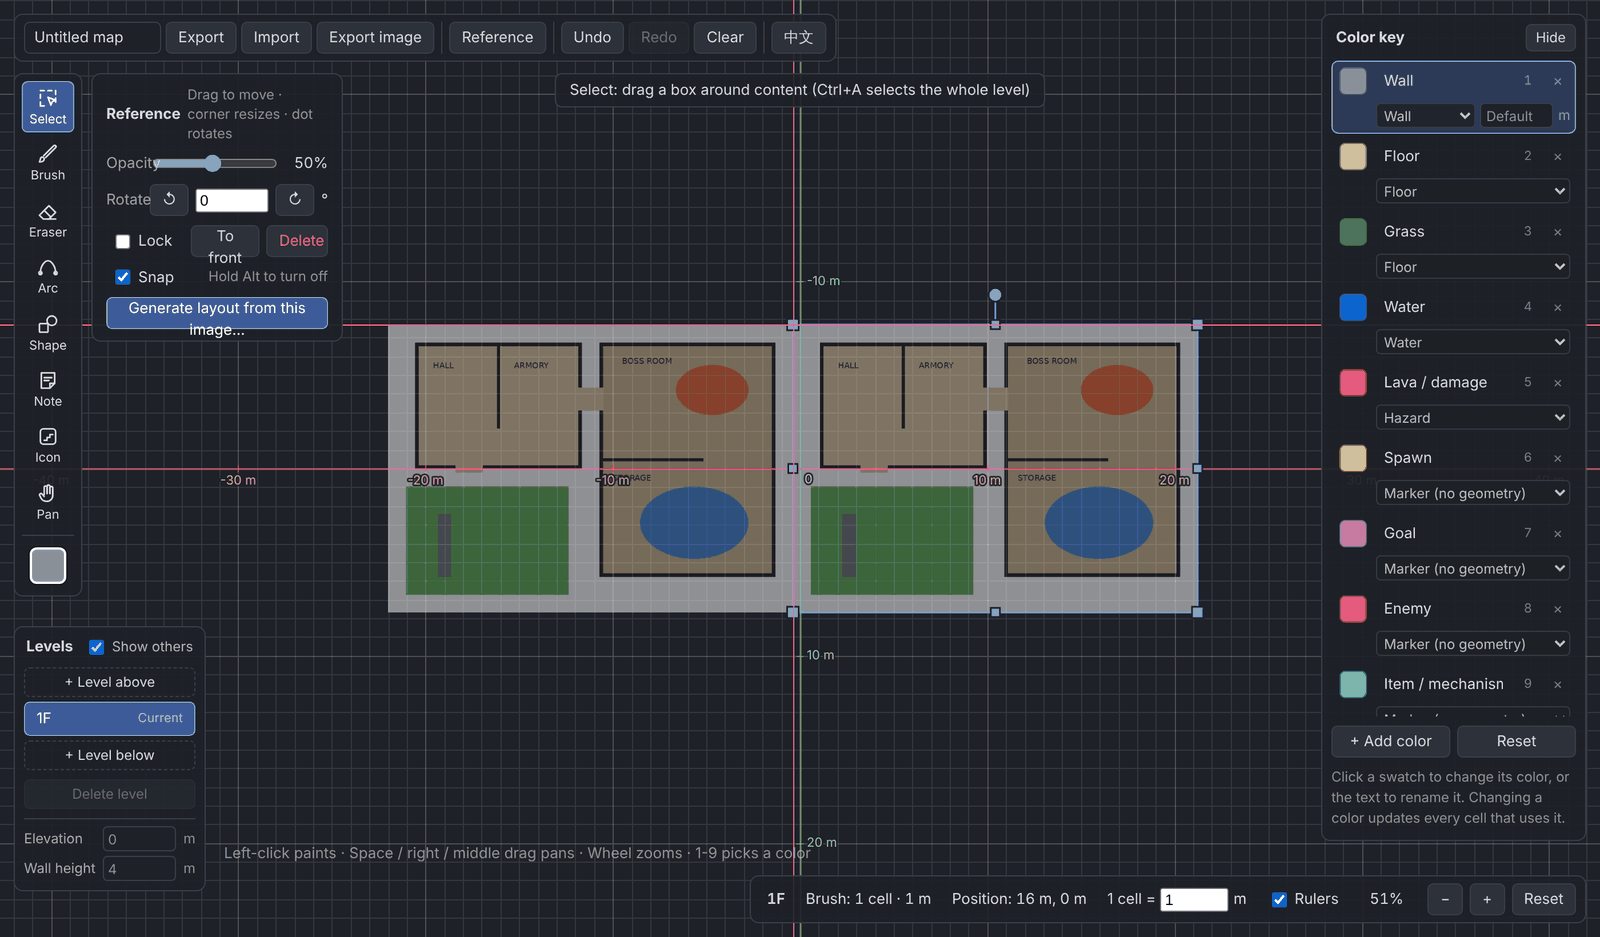
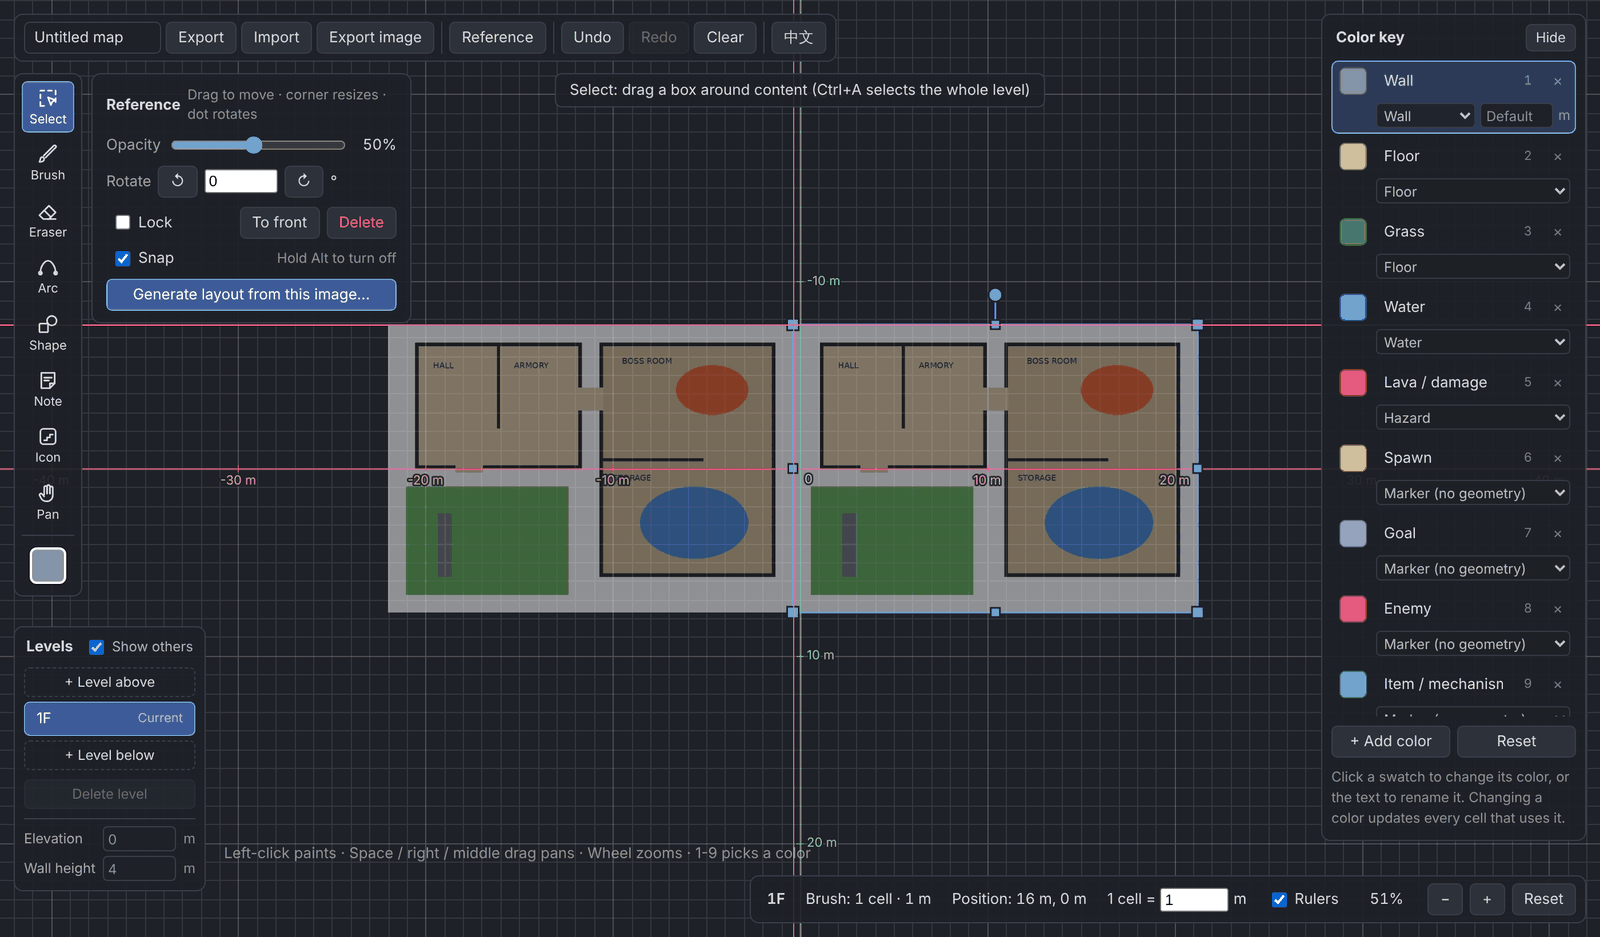
修英文界面选项面板的折行：参考图、生成 layout 面板放宽，标签和按钮不折行，顶部提示不压住面板
- 英文下参考图面板 280px、从参考图生成面板 340px；opt-label 改成最小宽度且不折行（Darkness 不再压到滑块上）
- 选项面板里的按钮、生成面板的复选框文字不折行
- 顶部操作提示限制最大宽度，太长折成两行，不再盖住左侧面板
- 重新截取 README 里受影响的截图

Claude-Session: https://claude.ai/code/session_01GEUeSgCdFaV2iR6tt1g6wN

diff --git a/release/level-layout-designer.html b/release/level-layout-designer.html
@@ -102,7 +102,8 @@ button:disabled { opacity: 0.4; cursor: default; }
 }
 .opt-col { display: flex; flex-direction: column; gap: 8px; }
 .opt-row { display: flex; align-items: center; gap: 6px; }
-.opt-label { width: 32px; opacity: 0.7; }
+.opt-label { min-width: 32px; flex-shrink: 0; white-space: nowrap; opacity: 0.7; }
+.tool-options button { white-space: nowrap; }
 .icon-name { font-weight: 600; }
 .icon-grid { display: grid; grid-template-columns: repeat(6, 30px); gap: 4px; max-height: 240px; overflow-y: auto; }
 .icon-grid button { width: 30px; height: 30px; padding: 0; display: grid; place-items: center; border-radius: 6px; }
@@ -114,6 +115,8 @@ button:disabled { opacity: 0.4; cursor: default; }
 #sel-icon-size { width: 64px; }
 #sel-icon-row .opt-label { white-space: nowrap; }
 .image-options { width: 220px; box-sizing: border-box; }
+/* 英文标签和按钮更长，面板放宽，避免折行、标签压到滑块上 */
+html[lang="en"] .image-options { width: 280px; }
 .image-options .opt-tip { font-size: 12px; opacity: 0.6; margin-left: auto; }
 .image-options input[type="range"] { flex: 1; min-width: 0; accent-color: #7aa2f7; }
 .image-options .opt-num { width: 36px; text-align: right; font-variant-numeric: tabular-nums; }
@@ -189,8 +192,11 @@ select {
 .check { display: inline-flex; align-items: center; gap: 4px; cursor: pointer; padding: 0 4px; }
 .hint {
   position: fixed; left: 50%; top: 64px; transform: translateX(-50%); padding: 5px 12px; border-radius: 6px;
-  background: rgba(30, 33, 39, 0.92); border: 1px solid #3a3f4b; pointer-events: none; white-space: nowrap;
+  background: rgba(30, 33, 39, 0.92); border: 1px solid #3a3f4b; pointer-events: none;
+  /* 宽屏上不压住左侧的选项面板（中文最宽约 380px，英文约 420px），太长就折成两行 */
+  width: max-content; max-width: max(320px, calc(100vw - 780px)); text-align: center;
 }
+html[lang="en"] .hint { max-width: max(320px, calc(100vw - 860px)); }
 .toast {
   position: fixed; left: 50%; bottom: 64px; transform: translateX(-50%); max-width: calc(100% - 32px);
   padding: 8px 14px; border-radius: 8px; background: #2c313a; border: 1px solid #3a3f4b; box-sizing: border-box;
@@ -230,6 +236,8 @@ select {
 .hud-unit input[type="number"] { width: 52px; }
 
 .trace-options { width: 300px; }
+html[lang="en"] .trace-options { width: 340px; }
+.trace-options .check { white-space: nowrap; }
 .trace-options select { flex: 1; min-width: 0; }
 .trace-colors { display: flex; flex-direction: column; gap: 6px; }
 .trace-chips { display: flex; flex-wrap: wrap; gap: 4px; }

diff --git a/src/style.css b/src/style.css
@@ -94,7 +94,8 @@ button:disabled { opacity: 0.4; cursor: default; }
 }
 .opt-col { display: flex; flex-direction: column; gap: 8px; }
 .opt-row { display: flex; align-items: center; gap: 6px; }
-.opt-label { width: 32px; opacity: 0.7; }
+.opt-label { min-width: 32px; flex-shrink: 0; white-space: nowrap; opacity: 0.7; }
+.tool-options button { white-space: nowrap; }
 .icon-name { font-weight: 600; }
 .icon-grid { display: grid; grid-template-columns: repeat(6, 30px); gap: 4px; max-height: 240px; overflow-y: auto; }
 .icon-grid button { width: 30px; height: 30px; padding: 0; display: grid; place-items: center; border-radius: 6px; }
@@ -106,6 +107,8 @@ button:disabled { opacity: 0.4; cursor: default; }
 #sel-icon-size { width: 64px; }
 #sel-icon-row .opt-label { white-space: nowrap; }
 .image-options { width: 220px; box-sizing: border-box; }
+/* 英文标签和按钮更长，面板放宽，避免折行、标签压到滑块上 */
+html[lang="en"] .image-options { width: 280px; }
 .image-options .opt-tip { font-size: 12px; opacity: 0.6; margin-left: auto; }
 .image-options input[type="range"] { flex: 1; min-width: 0; accent-color: #7aa2f7; }
 .image-options .opt-num { width: 36px; text-align: right; font-variant-numeric: tabular-nums; }
@@ -181,8 +184,11 @@ select {
 .check { display: inline-flex; align-items: center; gap: 4px; cursor: pointer; padding: 0 4px; }
 .hint {
   position: fixed; left: 50%; top: 64px; transform: translateX(-50%); padding: 5px 12px; border-radius: 6px;
-  background: rgba(30, 33, 39, 0.92); border: 1px solid #3a3f4b; pointer-events: none; white-space: nowrap;
+  background: rgba(30, 33, 39, 0.92); border: 1px solid #3a3f4b; pointer-events: none;
+  /* 宽屏上不压住左侧的选项面板（中文最宽约 380px，英文约 420px），太长就折成两行 */
+  width: max-content; max-width: max(320px, calc(100vw - 780px)); text-align: center;
 }
+html[lang="en"] .hint { max-width: max(320px, calc(100vw - 860px)); }
 .toast {
   position: fixed; left: 50%; bottom: 64px; transform: translateX(-50%); max-width: calc(100% - 32px);
   padding: 8px 14px; border-radius: 8px; background: #2c313a; border: 1px solid #3a3f4b; box-sizing: border-box;
@@ -222,6 +228,8 @@ select {
 .hud-unit input[type="number"] { width: 52px; }
 
 .trace-options { width: 300px; }
+html[lang="en"] .trace-options { width: 340px; }
+.trace-options .check { white-space: nowrap; }
 .trace-options select { flex: 1; min-width: 0; }
 .trace-colors { display: flex; flex-direction: column; gap: 6px; }
 .trace-chips { display: flex; flex-wrap: wrap; gap: 4px; }
